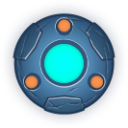
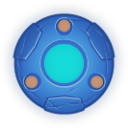
sup

diff --git a/public/main.js b/public/main.js
@@ -13,6 +13,7 @@ class Intro extends Phaser.Scene {
         this.load.image('bullet', './assets/bullet.png');
         this.load.image('cd1', './assets/cd1.png');
         this.load.image('cd2', './assets/cd2.png');
+        this.load.image('trophy', './assets/trophy.png');
         this.load.image('base', './assets/base.png');
         this.load.image('knob', './assets/knob.png');
         this.load.atlas('flares', './assets/particles/flares.png', './assets/particles/flares.json');
@@ -36,7 +37,7 @@ class Intro extends Phaser.Scene {
         this.cd2Full= data.cd2;
 
 
-        let rect = this.add.rectangle(1000, 1000, 2000, 2000, 0x8cb8ff);
+        let rect = this.add.rectangle(1000, 1000, 2000, 2000, 0x273b44);
         this.baseContainer.add([rect]);
 
         window.entities = {};
@@ -142,23 +143,6 @@ class Intro extends Phaser.Scene {
 
         // Controls
         let that = this;
-        // this.input.on('pointermove', function (event) {
-        //     that.pointerPosition = {x: event.worldX, y: event.worldY};
-
-        //     if (!that.me) return;
-        //     let dir = new Phaser.Math.Vector2(event.worldX - that.me.body.x, event.worldY - that.me.body.y).normalize();
-        //     let angle = Math.atan2(dir.y, dir.x) * 180 / Math.PI + 90;
-        //     that.me.probe.angle = angle;
-
-        //     // Limit pointer move request
-        //     if (that.pointerLocked) return;
-        //     socket.emit("DIRECT", { id: that.meData.id, direction: dir, rotation: angle });
-        //     that.pointerLocked = true;
-        //     setTimeout(function () {
-        //         this.pointerLocked = false;
-        //     }.bind(that), 100);
-        // });
-
         this.input.keyboard.on('keydown-' + 'S', function (event) {
             if (that.stopped) return;
             socket.emit("STOP", { id: that.meData.id, stop: true });
@@ -168,13 +152,7 @@ class Intro extends Phaser.Scene {
             socket.emit("STOP", { id: that.meData.id, stop: false});
             that.stopped = false;
         });
-        // this.input.on('pointerdown', function(pointer){
-        //     if (pointer.rightButtonDown()) {
-        //         socket.emit("JUMP", { id: that.meData.id});
-        //     } else {
-        //         socket.emit("FIRE", { id: that.meData.id});
-        //     }
-        // });
+
 
         // Display
         this.cd1 = this.add.sprite(window.innerWidth*0.1, window.innerHeight*0.9, 'cd1');
@@ -182,7 +160,7 @@ class Intro extends Phaser.Scene {
         this.cd1.setOrigin(0.5);
         this.cd1.setDepth(100);
         this.cd1.setScrollFactor(0,0);
-        this.cd1.setScale(0.1);
+        this.cd1.setScale(0.4);
         this.cd1text = this.add.text(window.innerWidth*0.1, window.innerHeight*0.95, "0%", {
             fontFamily: '"Verdana"',
             fontSize: "24px",
@@ -200,13 +178,13 @@ class Intro extends Phaser.Scene {
         }, this);
         this.cd1text.blendMode = Phaser.BlendModes.NORMAL;
 
-        this.cd2 = this.add.sprite(window.innerWidth*0.25, window.innerHeight*0.9, 'cd2');
+        this.cd2 = this.add.sprite(window.innerWidth*0.1+150, window.innerHeight*0.9, 'cd2');
         this.cd2.setAlpha(0.2);
         this.cd2.setOrigin(0.5);
         this.cd2.setDepth(1);
         this.cd2.setScrollFactor(0,0);
-        this.cd2.setScale(0.1);
-        this.cd2text = this.add.text(window.innerWidth*0.25, window.innerHeight*0.95, "0%", {
+        this.cd2.setScale(0.4);
+        this.cd2text = this.add.text(window.innerWidth*0.1+150, window.innerHeight*0.95, "0%", {
             fontFamily: '"Verdana"',
             fontSize: "24px",
             strokeThickness: 1
@@ -257,6 +235,30 @@ class Intro extends Phaser.Scene {
                 setTimeout(function () {
                     that.pointerLocked = false;
                 }.bind(that), 100);
+            });
+        } else {
+            this.input.on('pointermove', function (event) {
+                that.pointerPosition = {x: event.worldX, y: event.worldY};
+
+                if (!that.me) return;
+                let dir = new Phaser.Math.Vector2(event.worldX - that.me.body.x, event.worldY - that.me.body.y).normalize();
+                let angle = Math.atan2(dir.y, dir.x) * 180 / Math.PI + 90;
+                that.me.probe.angle = angle;
+
+                // Limit pointer move request
+                if (that.pointerLocked) return;
+                socket.emit("DIRECT", { id: that.meData.id, direction: dir, rotation: angle });
+                that.pointerLocked = true;
+                setTimeout(function () {
+                    this.pointerLocked = false;
+                }.bind(that), 100);
+            });
+            this.input.on('pointerdown', function(pointer){
+                if (pointer.rightButtonDown()) {
+                    socket.emit("JUMP", { id: that.meData.id});
+                } else {
+                    socket.emit("FIRE", { id: that.meData.id});
+                }
             });
         }
 
@@ -664,5 +666,3 @@ return (('ontouchstart' in window) ||
     (navigator.maxTouchPoints > 0) ||
     (navigator.msMaxTouchPoints > 0));
 }
-
-alert(isTouchDevice());

diff --git a/public/playerRender.js b/public/playerRender.js
@@ -39,7 +39,7 @@ class PlayerBaseRender {
       emitter.startFollow(this.body);
       this.emitterAcc.startFollow(this.body);
 
-      infoBody.add(namePlate);
+      infoBody.add([namePlate]);
       this.body.add([this.probe, infoBody]);
       base.add([this.body, this.particles]);
     }
